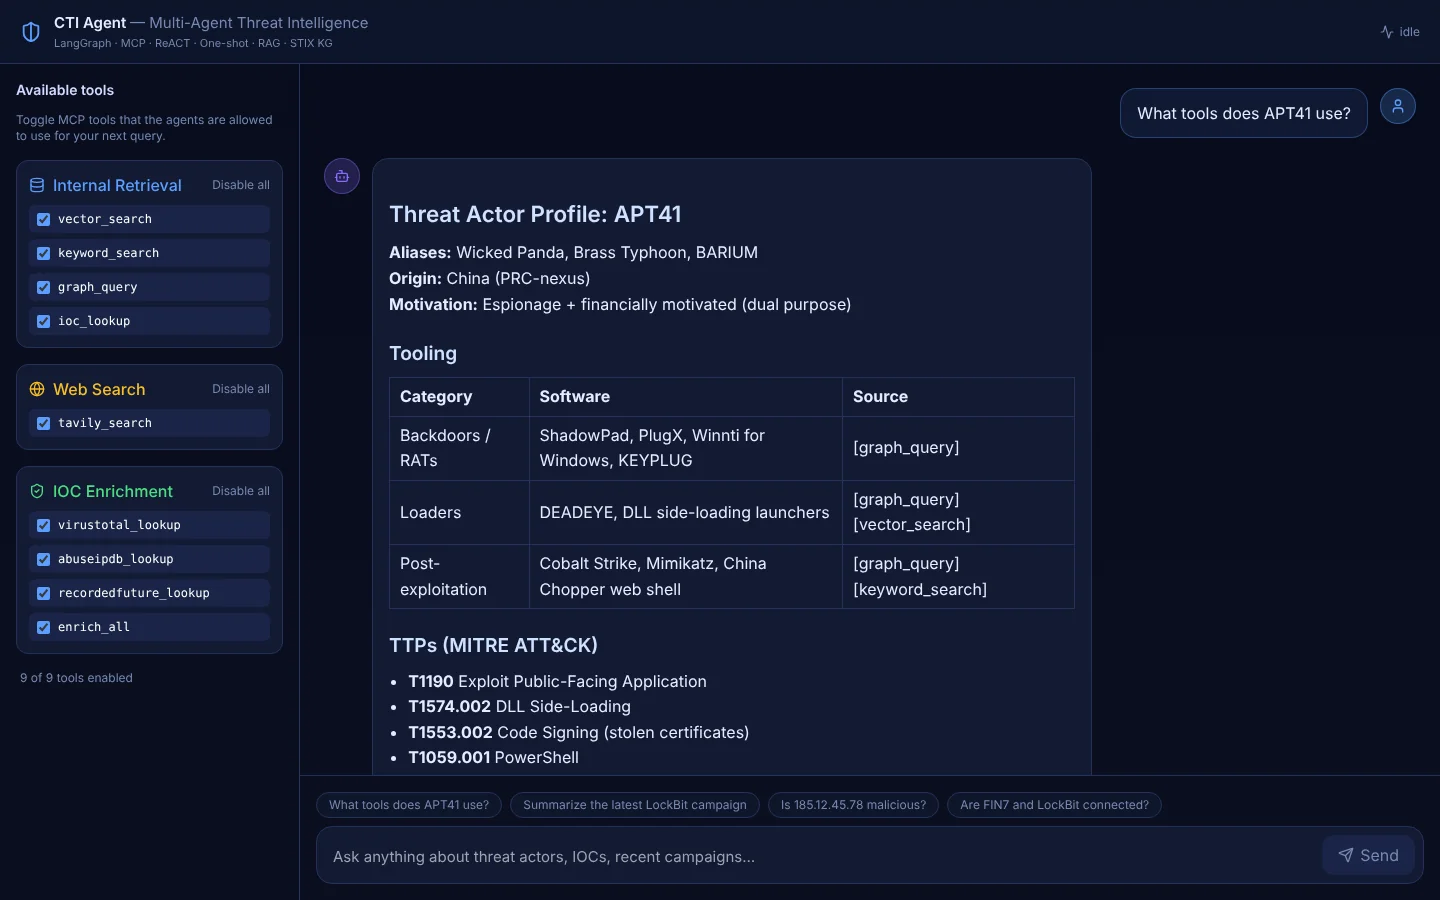
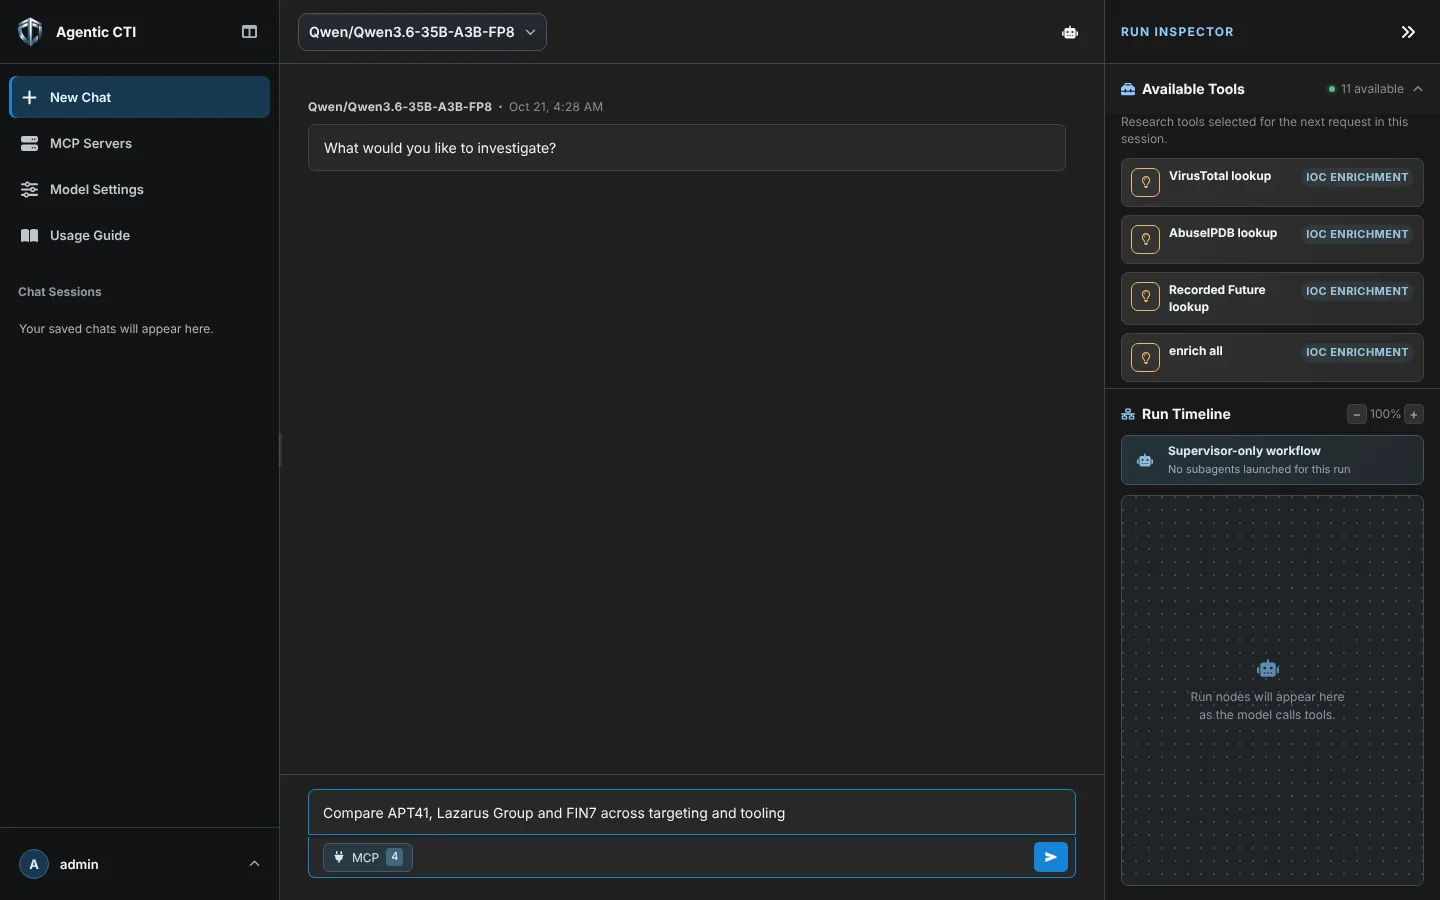
Update CTI Agent project for the deep-agent rebuild
Refresh the writeup and screenshots for the Agentic CTI architecture:
supervisor with Deep Agents subagents, evidence-checked reports, four MCP
servers and the bundled synthetic corpus.

diff --git a/index.html b/index.html
@@ -179,21 +179,21 @@
 
             <article class="proj" data-cat="agents cti">
               <div class="shots" data-pager>
-                <img src="assets/projects/cti-agent-project-1.webp" alt="CTI Agent answering 'What tools does APT41 use?' with a cited threat-actor profile" width="1440" height="900" loading="lazy">
-                <img src="assets/projects/cti-agent-project-2.webp" alt="Agent timeline showing retrieval evidence cards and the validator's verdict" width="1440" height="900" loading="lazy">
-                <img src="assets/projects/cti-agent-project-3.webp" alt="IOC lookup report with verdicts from four enrichment sources" width="1440" height="900" loading="lazy">
+                <img src="assets/projects/cti-agent-project-1.webp" alt="CTI Agent console with a comparison question ready to send and the research tools listed in the run inspector" width="1440" height="900" loading="lazy">
+                <img src="assets/projects/cti-agent-project-2.webp" alt="MCP Servers page with the retrieval, search and enrichment servers connected and their tools" width="1440" height="900" loading="lazy">
+                <img src="assets/projects/cti-agent-project-3.webp" alt="Synthetic APT41 campaign report that the agent's citations link to" width="1440" height="900" loading="lazy">
               </div>
               <div class="proj-body">
-                <div class="proj-meta"><span class="cat">Multi-agent · Threat intel</span><span>2026</span></div>
+                <div class="proj-meta"><span class="cat">Deep agents · Threat intel</span><span>2026</span></div>
                 <h3>CTI Agent</h3>
-                <p class="pitch">A multi-agent threat intelligence analyst you can chat with. It plans, gathers evidence, writes a report and checks it, with every step on screen.</p>
+                <p class="pitch">A deep-agent threat intelligence analyst. A supervisor plans the research, hands independent questions to subagents and returns a report where every claim is checked against its sources.</p>
                 <ul>
-                  <li>Four LangGraph agents: orchestrator, retrieval, writer and a validator that sends ungrounded drafts back for a rewrite.</li>
-                  <li>Evidence from Milvus vectors, Elasticsearch BM25, a Neo4j MITRE ATT&amp;CK graph and a Postgres IOC store, all exposed as MCP tools.</li>
-                  <li>IOC enrichment from VirusTotal, AbuseIPDB and Recorded Future. Analyst feedback is stored as training data.</li>
-                  <li>Runs on local Qwen3 served by vLLM. A public, synthetic-data version of a production stack.</li>
+                  <li>Supervisor on LangGraph with Deep Agents middleware: Markdown skills, a scratch filesystem and isolated research subagents sharing one resource budget.</li>
+                  <li>Every tool result is captured as evidence in Postgres before the model sees it. Claims are reviewed against exact source passages, and missing evidence is reported as a gap.</li>
+                  <li>Four MCP servers: OpenCTI STIX graph and report search (Elasticsearch, Milvus), web search, IOC enrichment, and an approval-gated OpenCTI publisher.</li>
+                  <li>Ships with a seeded synthetic corpus (10 actors, 49 reports, 80 IOCs), so the whole stack starts with a single Docker Compose command. A public version of a production stack.</li>
                 </ul>
-                <div class="chips"><span class="chip">LangGraph</span><span class="chip">MCP</span><span class="chip">vLLM</span><span class="chip">Milvus</span><span class="chip">Neo4j</span><span class="chip">FastAPI</span><span class="chip">Next.js</span></div>
+                <div class="chips"><span class="chip">LangGraph</span><span class="chip">Deep Agents</span><span class="chip">MCP</span><span class="chip">PostgreSQL</span><span class="chip">Elasticsearch</span><span class="chip">Milvus</span><span class="chip">FastAPI</span><span class="chip">React</span></div>
                 <div class="links"><a class="btn ghost" href="https://github.com/JethroPhuah/CTI-Agent-Project" target="_blank" rel="noopener">View code</a></div>
               </div>
             </article>
